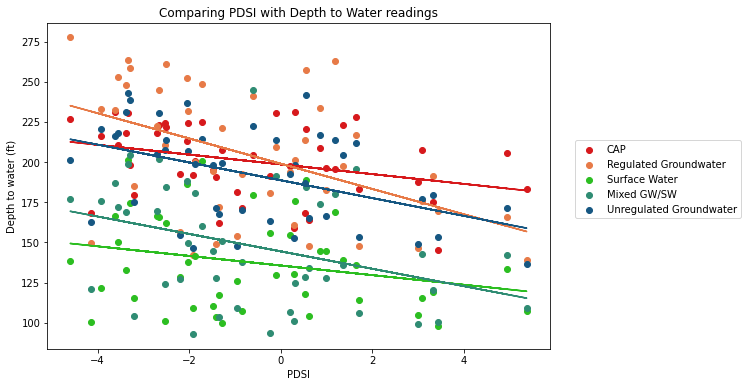
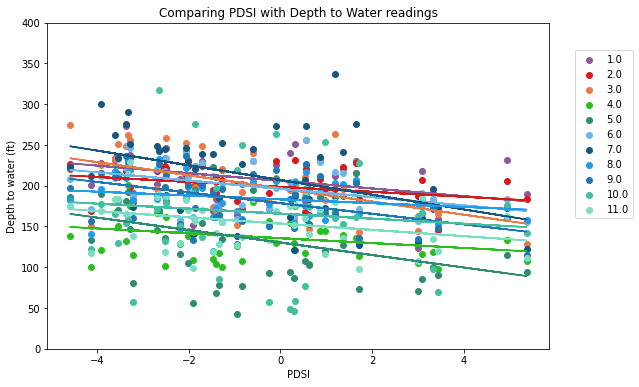
Cleaning up the code and adding well depth as a column in the combined database

diff --git a/SummaryCodes/Spatial_Analysis_Wells_FinalGeoreg.py b/SummaryCodes/Spatial_Analysis_Wells_FinalGeoreg.py
@@ -26,8 +26,8 @@
 #       access to SW, or georegion (finer scale))
 # 6. Export pivot tables into .csv's for easy analyzing later
 #       * Note: after reading in packages, skip to line 197 to avoid redoing steps 1-5
-# 6. Graphs for days (starting around line 214)
-# 7. Statistical analyses
+# 7. Graphs for days (starting around line 214)
+# 8. Statistical analyses
 #       - Linear Regression (~line 929)
 #       - Pearson/Spearman Correlation (~line 212)
 #       - lagged Correlation analyses
@@ -53,6 +53,8 @@ import geopandas as gp
 #import earthpy as et
 import scipy.stats as sp
 from scipy.stats import kendalltau, pearsonr, spearmanr
+import pymannkendall as mk
+
 
 # Some functions for analysis
 def kendall_pval(x,y):
@@ -149,13 +151,13 @@ print(str(filename_mdb_nd) + " and " + str(filename_georeg) + " join complete.")
 
 # %% Exporting or reading in the static geodatabase instead of rerunning
 # static_geo.to_csv('../MergedData/Output_files/Final_Static_geodatabase_allwells.csv')
-# filename = "Final_Static_geodatabase_allwells.csv"
-# filepath = os.path.join(outputpath, filename)
-# static_geo = gp.read_file(filepath)
-# static_geo
+filename = "Final_Static_geodatabase_allwells.csv"
+filepath = os.path.join(outputpath, filename)
+static_geo = pd.read_csv(filepath)
+static_geo
 
 # %% Create a dataframe of Final_Region and Well ID's
-reg_list = static_geo[['Combo_ID', 'GEO_Region', 'GEOREGI_NU','Water_CAT', 'Loc','Regulation']]
+reg_list = static_geo[['Combo_ID', 'GEO_Region', 'GEOREGI_NU','Water_CAT', 'Loc','Regulation','WELL_DEPTH']]
 reg_list
 
 # %% Converting Combo_ID to int
@@ -186,14 +188,15 @@ filepath = '../MergedData/Output_files/Final_WaterLevels_adjusted.csv'
 combo = pd.read_csv(filepath, index_col=0)
 combo.head()
 
+combo['GEOREGI_NU'] = pd.to_numeric(combo['GEOREGI_NU'])
 
 # %% Now for aggregating by category for the timeseries
 # cat_wl = combo.groupby(['GEO_Region', 'GEOREGI_NU']).mean()
-# cat_wl = combo.groupby(['GEOREGI_NU']).mean()
-cat_wl = combo.groupby(['Regulation']).mean()
-# cat_wl = combo.groupby(['Water_CAT']).mean()
+cat_wl_georeg = combo.groupby(['GEOREGI_NU']).mean()
+cat_wl_reg = combo.groupby(['Regulation']).mean()
+cat_wl_SW = combo.groupby(['Water_CAT']).mean()
 
-cat_wl
+cat_wl_georeg.info()
 
 # %% 
 cat_wl2 = cat_wl.copy()
@@ -205,7 +208,7 @@ cat_wl2
 
 # %% Clean up the dataframe for graphing
 del cat_wl2['GEOREGI_NU']
-cat_wl2 = cat_wl2[1:]
+# cat_wl2 = cat_wl2[1:]
 # del cat_wl2['GEO_Region']
 cat_wl2
 # %%
@@ -227,7 +230,7 @@ cat_wl2.set_index('index', inplace=True)
 cat_wl2.info()
 
 # %% Going to export all these as CSV's
-# cat_wl.to_csv('../MergedData/Output_files/Final_Categories_WL_adjusted.csv')
+cat_wl2.to_csv('../MergedData/Output_files/Waterlevels_georegions.csv')
 # cat_wl2.to_csv('../MergedData/Output_files/Waterlevels_Regulation.csv')
 # cat_wl2.to_csv('../MergedData/Output_files/Waterlevels_Waterlevels_AccesstoSW.csv')
 
@@ -242,11 +245,23 @@ filepath = '../MergedData/Output_files/Waterlevels_AccesstoSW.csv'
 cat_wl2_SW = pd.read_csv(filepath, index_col=0)
 cat_wl2_SW.head()
 
+# %%
 # For georegion number
-filepath = '../MergedData/Output_files/Final_Categories_WL_adjusted.csv'
+filepath = '../MergedData/Output_files/Waterlevels_georegions.csv'
 cat_wl2_georeg = pd.read_csv(filepath, index_col=0)
-cat_wl2_georeg.head()
+# cat_wl2_georeg.head()
+# %%
+cat_wl2_georeg = cat_wl2_georeg.transpose()
+cat_wl2_georeg
+# %%
+cat_wl2_georeg.reset_index(inplace=True)
+cat_wl2_georeg['index'] = pd.to_numeric(cat_wl2_georeg['index'])
+cat_wl2_georeg.set_index('index', inplace=True)
+cat_wl2_georeg.info()
 
+# %%
+cat_wl2_georeg = cat_wl2_georeg.transpose()
+cat_wl2_georeg
 # %% Creating dictionary of labels
 labels = cat_wl2.columns.tolist()
 # georeg = georeg.sort_values(by=['GEOREGI_NU'])
@@ -269,6 +284,7 @@ drought_color = '#ffa6b8'
 wet_color = '#b8d3f2'
 
 reg_colors = [c_2,c_7]
+georeg_colors = [c_1,c_2,c_3,c_4,c_5,c_6,c_7,c_8,c_9,c_10,c_11]
 SW_colors = [c_2,c_3,c_4,c_5,c_7]
 
 #%% Plot by Groundwater Regulation
@@ -399,21 +415,24 @@ ax.plot(ds[9.0], color=c_9, label='Northeast - GW Dominated')
 ax.plot(ds[8.0], color=c_8, label='South central - GW Dominated')
 ax.plot(ds[6.0], color=c_6, label='Southeast - GW Dominated')
 # Drought Year Shading
-a = 2011
-b = 2015.999
-c = 2018.001
-d = 2018.999
-e = 2006
-f = 2007.999
+a = 1988.5
+b = 1990.5
+c = 1995.5
+d = 1996.5
+e = 2001.5
+f = 2003.5
+g = 2005.5
+h = 2007.5
+i = 2011.5
+j = 2014.5
+k = 2017.5
+l= 2018.5
 plt.axvspan(a, b, color=drought_color, alpha=0.5, lw=0, label="Drought")
 plt.axvspan(c, d, color=drought_color, alpha=0.5, lw=0)
 plt.axvspan(e, f, color=drought_color, alpha=0.5, lw=0)
-
-# Wet years (2005 and 2010)
-g = 2005
-h = 2010
-ax.axvspan(g, e, color=wet_color, alpha=0.5, lw=0, label="Wet Years")
-ax.axvspan(h, a, color=wet_color, alpha=0.5, lw=0)
+plt.axvspan(g, h, color=drought_color, alpha=0.5, lw=0)
+plt.axvspan(i, j, color=drought_color, alpha=0.5, lw=0)
+plt.axvspan(k, l, color=drought_color, alpha=0.5, lw=0)
 
 ax.set_xlim(minyear,maxyear)
 ax.set_ylim(min_y,max_y)
@@ -799,8 +818,8 @@ plt.savefig(outputpath+name+'_4panel_drought', bbox_inches = 'tight') # bbox_inc
 
 # plt.savefig(outputpath+name+'_3panel_drought')
 
-# %% Plot in a three panel graph, 1 column
-ds = cat_wl2
+# %% Plot georegions in a three panel graph, 1 column
+ds = cat_wl2_georeg
 minyear=1971
 maxyear=2020
 name = "Average Depth to Water for " + str(minyear) + " to " + str(maxyear)
@@ -1085,7 +1104,8 @@ column_list = ds.columns.tolist()
 
 stats = pd.DataFrame()
 for i in column_list:
-        df = f[i]
+        # df = f[i]
+        df = f[i].pct_change()
         #print(df)
         y=np.array(df.values, dtype=float)
         x=np.array(pd.to_datetime(df).index.values, dtype=float)
@@ -1214,16 +1234,16 @@ fig.set_dpi(600.0)
 ax.set_ylim(75,300)
 ax.set_title(Name)
 vertshift = -0.1
-# plt.figtext(0.95, 0.5 - vertshift, 'CAP equation: y = '+str(m1)+'x + '+str(yint1))
-# plt.figtext(0.98, 0.45 - vertshift, 'rsq = '+ str(rsq1) + '; p-value = ' + str(pval1))
-# plt.figtext(0.95, 0.4 - vertshift, 'Unregulated GW equation: y = '+str(m2)+'x + '+str(yint2))
-# plt.figtext(0.98, 0.35 - vertshift, 'rsq = '+ str(rsq2) +'; p-value = ' + str(pval2))
-# plt.figtext(0.95, 0.3 - vertshift, 'Mixed SW/GW equation: y = '+str(m3)+'x + '+str(yint3))
-# plt.figtext(0.98, 0.25 - vertshift, 'rsq = '+ str(rsq3) +'; p-value = ' + str(pval3))
-# plt.figtext(0.95, 0.2 - vertshift, 'Regulated GW equation: y = '+str(m4)+'x + '+str(yint4))
-# plt.figtext(0.98, 0.15 - vertshift, 'rsq = '+ str(rsq4) +'; p-value = ' + str(pval4))
-# plt.figtext(0.95, 0.1 - vertshift, 'SW equation: y = '+str(m5)+'x + '+str(yint5))
-# plt.figtext(0.98, 0.05 - vertshift, 'rsq = '+ str(rsq5) +'; p-value = ' + str(pval5))
+plt.figtext(0.95, 0.5 - vertshift, 'CAP equation: y = '+str(m1)+'x + '+str(yint1))
+plt.figtext(0.98, 0.45 - vertshift, 'rsq = '+ str(rsq1) + '; p-value = ' + str(pval1))
+plt.figtext(0.95, 0.4 - vertshift, 'Unregulated GW equation: y = '+str(m2)+'x + '+str(yint2))
+plt.figtext(0.98, 0.35 - vertshift, 'rsq = '+ str(rsq2) +'; p-value = ' + str(pval2))
+plt.figtext(0.95, 0.3 - vertshift, 'Mixed SW/GW equation: y = '+str(m3)+'x + '+str(yint3))
+plt.figtext(0.98, 0.25 - vertshift, 'rsq = '+ str(rsq3) +'; p-value = ' + str(pval3))
+plt.figtext(0.95, 0.2 - vertshift, 'Regulated GW equation: y = '+str(m4)+'x + '+str(yint4))
+plt.figtext(0.98, 0.15 - vertshift, 'rsq = '+ str(rsq4) +'; p-value = ' + str(pval4))
+plt.figtext(0.95, 0.1 - vertshift, 'SW equation: y = '+str(m5)+'x + '+str(yint5))
+plt.figtext(0.98, 0.05 - vertshift, 'rsq = '+ str(rsq5) +'; p-value = ' + str(pval5))
 
 ax.legend(
         # loc = [1.065, 0.75]
@@ -1233,7 +1253,7 @@ ax.legend(
 # stats1.to_csv(outputpath+'Stats/Water_CAT/'+Name+'_GW.csv')
 
 # %% For Depth to Water by regulation
-ds = cat_wl2
+ds = cat_wl2_reg
 data_type = "Depth to Water"
 betterlabels = ['Regulated','Unregulated'] 
 Name = str(min_yr) + " to " + str(mx_yr) + " Linear Regression for " + data_type
@@ -1317,12 +1337,13 @@ drought_indices
 
 # %% Figure out which water level database you want
 # cat_wl2 = cat_wl2_reg.copy()
-cat_wl2 = cat_wl2_SW.copy()
+# cat_wl2 = cat_wl2_SW.copy()
+cat_wl2 = cat_wl2_georeg.copy()
 # %% Water Analysis period
 wlanalysis_period = cat_wl2[cat_wl2.index>=1975]
-wlanalysis_period["UGW"]=wlanalysis_period['GW']
-del wlanalysis_period['GW']
-wlanalysis_period
+# wlanalysis_period["UGW"]=wlanalysis_period['GW']
+# del wlanalysis_period['GW']
+# wlanalysis_period
 
 # %% Checking for normality
 ds = wlanalysis_period
@@ -1340,7 +1361,8 @@ lag = 0
 # %%
 print('Kendall Correlation coefficient')
 for i in column_list:
-        print(' '+i+':')
+        # print(' '+i+':')
+        print(' '+str(i)+':')
 # To normalize the data 
         # df1 = cat_wl2[i].pct_change()
         # df2 = drought_indices.PDSI.pct_change()
@@ -1352,7 +1374,7 @@ for i in column_list:
 # %%
 print('Spearman Correlation coefficient')
 for i in column_list:
-        print(' '+i+':')
+        print(' '+str(i)+':')
         # df1 = cat_wl2[i].pct_change()
         # df2 = drought_indices.PDSI.pct_change()
         df1 = wlanalysis_period[i]
@@ -1363,7 +1385,7 @@ for i in column_list:
 # %%
 print('Pearson Correlation coefficient')
 for i in column_list:
-        print(' '+i+':')
+        print(' '+str(i)+':')
         # df1 = cat_wl2[i].pct_change()
         # df2 = drought_indices.PDSI.pct_change()
         df1 = wlanalysis_period[i]
@@ -1377,16 +1399,18 @@ ds = wlanalysis_period
 name = 'Comparing PDSI with Depth to Water readings'
 columns = ds.columns
 column_list = ds.columns.tolist()
-betterlabels = ['CAP','Regulated Groundwater','Surface Water','Mixed GW/SW','Unregulated Groundwater'] 
+# betterlabels = ['CAP','Regulated Groundwater','Surface Water','Mixed GW/SW','Unregulated Groundwater'] 
 # betterlabels = ['GW Regulated','GW Unregulated'] 
 
 fig, ax = plt.subplots(figsize = (9,6))
 x = drought_indices['PDSI']
-color_num = [2,3,4,5,7]
-for i,j,k in zip(column_list,SW_colors, betterlabels):
+for i,j in zip(column_list
+                ,georeg_colors
+                # , betterlabels
+                ):
         y = ds[i]
         ax.scatter(x,y
-                , label=k #i
+                , label=i #k
                 , color=j
                 )
         # Trendline: 1=Linear, 2=polynomial
@@ -1401,6 +1425,7 @@ for i,j,k in zip(column_list,SW_colors, betterlabels):
 ax.set_xlabel('PDSI')
 ax.set_ylabel('Depth to water (ft)')
 ax.set_title(name)
+ax.set_ylim(0,400)
 fig.set_dpi(600)
 plt.legend(loc = [1.05, 0.40])
 
